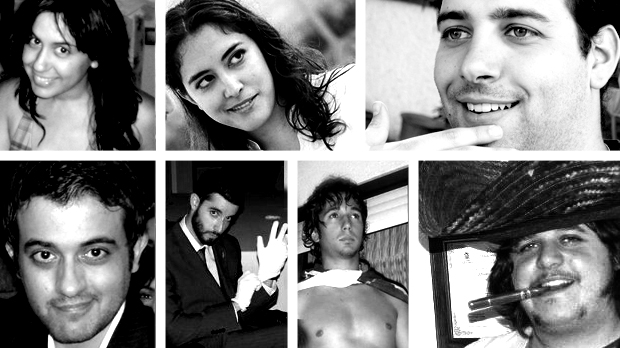
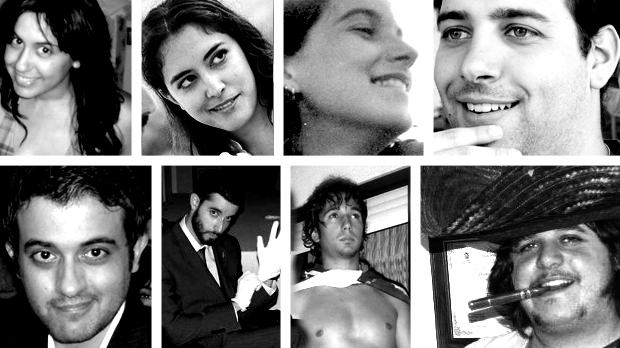
Subidos textos e imágenes preliminares

Changed region(s): [[0.0, 0.0, 1.0, 1.0]]

diff --git a/elections/templates/index.html b/elections/templates/index.html
@@ -43,26 +43,23 @@ HR ELECTIONS - Vota a tu candidato
           <!-- Carousel items -->
           <div class="carousel-inner">
             <div class="item active">
-                <img src="{{ STATIC_URL }}collage_outsiders.jpg">
+                <img src="{{ STATIC_URL }}collage_samuelers_rojo.jpg">
                 <div class="carousel-caption">
-                    <h4>Puaj, para ti</h4>
-                    <p>Come queso, y come limonada. Venga rápido que va a explotar</p>
+                    <h4>...el cambio que todos esperan...</h4>
                 </div>
             </div> 
             
             <div class="item">
-                <img src="{{ STATIC_URL }}collage_samuelers2.jpg">
+                <img src="{{ STATIC_URL }}collage_pakers_azules.jpg">
                 <div class="carousel-caption">
-                    <h4>Puaj, para ti</h4>
-                    <p>Come queso, y come limonada. Venga rápido que va a explotar</p>
+                    <h4>...la consolidación de un estilo de vida...</h4>
                 </div>
             </div> 
 
             <div class="item">
-                <img src="{{ STATIC_URL }}c3.jpg">
+                <img src="{{ STATIC_URL }}collage_outsiders.jpg">
                 <div class="carousel-caption">
-                    <h4>Puaj, para ti</h4>
-                    <p>Come queso, y come limonada. Venga rápido que va a explotar</p>
+                    <h4>...dependerá, pronto, de los indecisos. HR ELECTIONS</h4>
                 </div>
             </div> 
           </div>
@@ -73,9 +70,8 @@ HR ELECTIONS - Vota a tu candidato
         
     </div>
     <div class="span4">
-        <h2>LOREM IPSUM JODER</h2>
-        <p>Lorem ipsum dolor sit amet, consectetur adipiscing elit. Quisque tempus, risus ac vehicula fermentum, magna orci feugiat libero, vel fermentum dui quam venenatis dui. Nulla facilisi. Suspendisse potenti. Cras ac nulla massa, sit amet lacinia lacus. Nunc pellentesque augue sed elit hendrerit imperdiet ornare risus imperdiet. Vivamus eu quam eget orci suscipit volutpat. Duis ultrices, tellus sed euismod dapibus, orci lectus vestibulum enim, in porta massa erat a magna.</p>
-        <p>Lorem ipsum dolor sit amet, consectetur adipiscing elit. Quisque tempus, risus ac vehicula fermentum, magna orci feugiat libero, vel fermentum dui quam venenatis dui. Nulla facilisi. Suspendisse potenti. Cras ac nulla massa, sit amet lacinia lacus.</p>
+        <h2>HR ELECTIONS</h2>
+        <p>Porque todo conlleva un cambio... o no.</p><p>Porque las cosas cambian... o no.</p><p>Porque ahora tienes la oportunidad de tomar el mando... o de que te humillen para los restos</p>
         <div id="social">
         <a rel="nofollow" target="_blank" href="http://www.facebook.com/sharer.php?u=http://vitiman.webfactional.com/"><img src="{{ STATIC_URL}}facebook.png" alt="fb_share_icon"></a>
         <a rel="nofollow" target="_blank" href="https://twitter.com/intent/tweet?url=http://vitiman.webfactional.com/&amp;text=Vota%20a%20tu%20favorito%20para%20líder%20de%20la%20HR&amp;hashtags=HRElections"><img src="{{ STATIC_URL }}twitter.png" alt="twitter_icon"></a>
